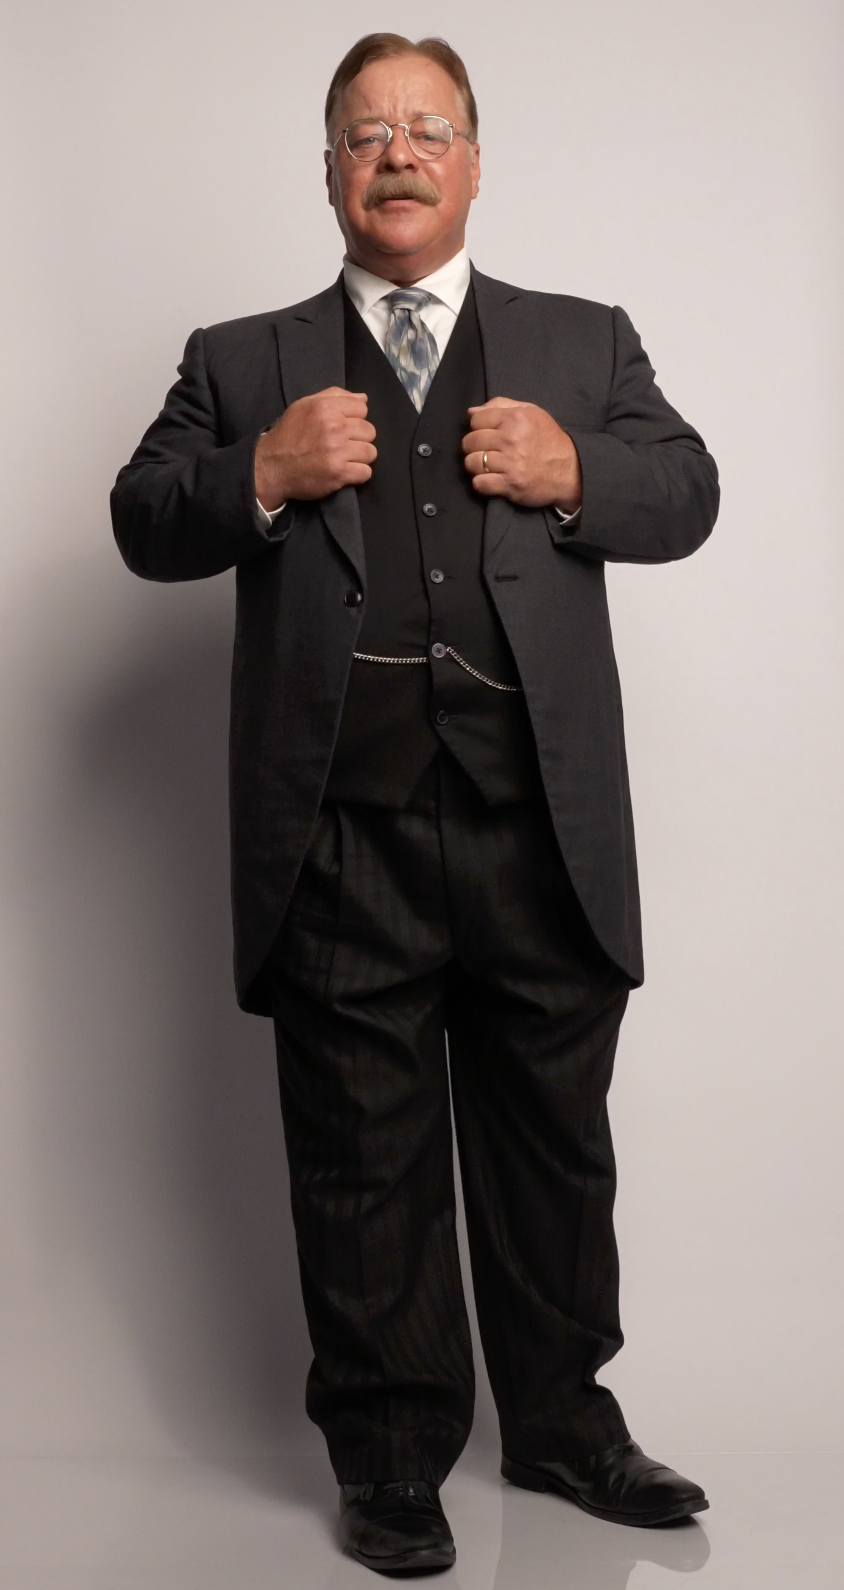
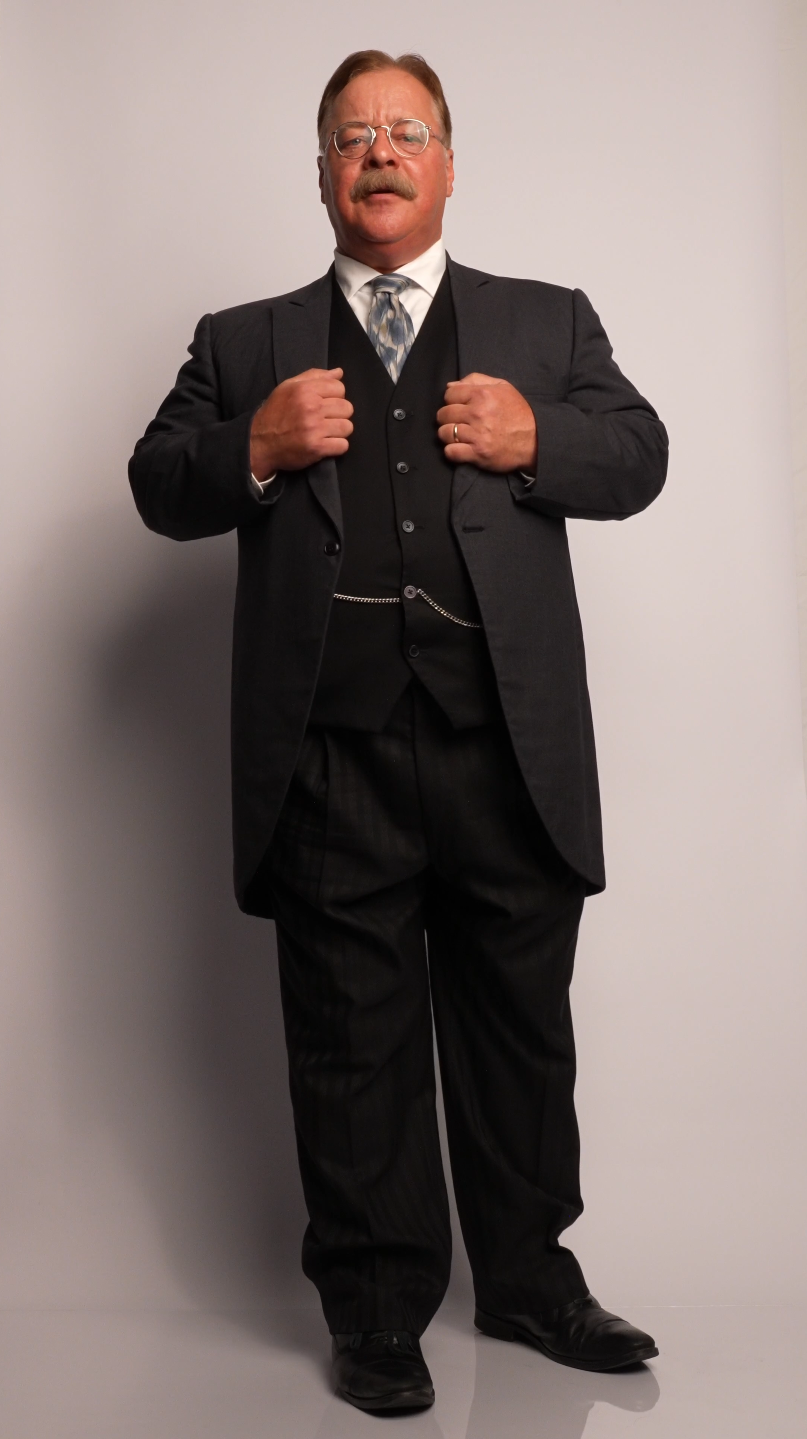
Update: Stop video after question

diff --git a/js/main.js b/js/main.js
@@ -5,12 +5,6 @@ const closeBtn = document.getElementById("closeBtn");
 const content = document.getElementById("content");
 const introVideo = document.getElementById("introVideo");
 
-// --- KEEP THE BACKGROUND VIDEO ALWAYS PLAYING ---
-// No matter what page or setting the user picks, if the video is ever paused
-// (e.g. by a stray browser/OS event), immediately resume it.
-introVideo.addEventListener("pause", () => {
-    introVideo.play().catch(() => {});
-});
 document.addEventListener("visibilitychange", () => {
     if (!document.hidden) {
         introVideo.play().catch(() => {});
@@ -20,6 +14,7 @@ function switchVideo(filename) {
     const source = introVideo.querySelector("source");
     source.src = `videos/${filename}`;
     introVideo.load();
+    introVideo.style.display = 'block'; // Make sure video is visible
     introVideo.play().catch(() => {});
 }
 
@@ -325,6 +320,7 @@ function renderPage(page) {
                     btn.addEventListener("click", function () {
                         const videoPath = this.dataset.video;
                         const videoFilename = videoPath.substring(videoPath.lastIndexOf('/') + 1);
+                        introVideo.loop = false; // Play video once
                         switchVideo(videoFilename);
                         askQuestionCollapsed = true; // Update state
                         questionList.classList.add("collapsed");
@@ -332,10 +328,24 @@ function renderPage(page) {
                     });
                 });
 
+                introVideo.addEventListener('ended', function() {
+                    if (!introVideo.loop) { // Only if we are not looping (i.e., after a question video)
+                        introVideo.style.display = 'none'; // Hide video
+                        // After video ends, show the static avatar image
+                        content.innerHTML = `
+                            <img src="${currentAvatar}" id="centerImage" alt="Avatar" style="position: absolute; top: 0; left: 0; width: 100%; height: 100%; object-fit: cover;">
+                            <button id="showQuestionsBtn" class="visible">?</button>
+                        `;
+                    }
+                });
+
+                // When showing the list again, go back to default looping video
                 showQuestionsBtn.addEventListener("click", function() {
                     askQuestionCollapsed = false; // Update state
                     questionList.classList.remove("collapsed");
                     showQuestionsBtn.classList.remove("visible");
+                    introVideo.loop = true;
+                    switchVideo("TeddyLowRes.mp4");
                 });
             });
 